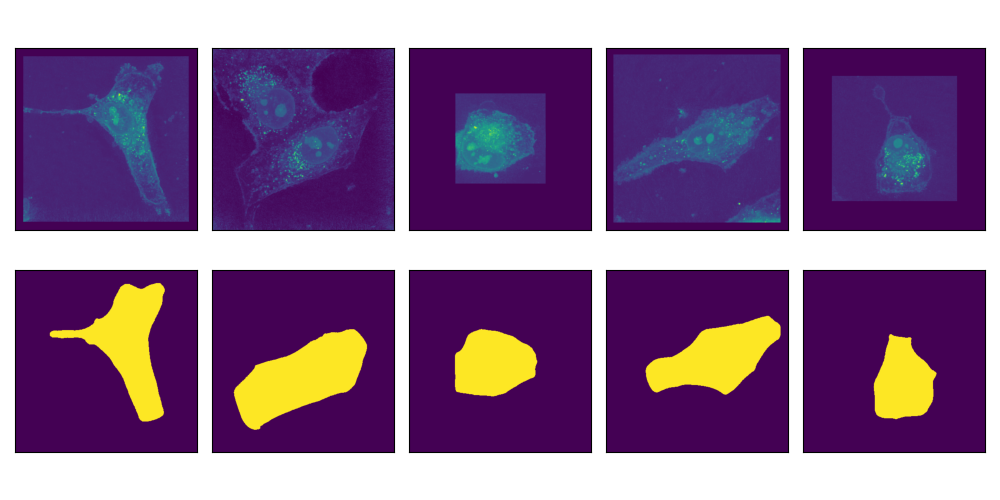
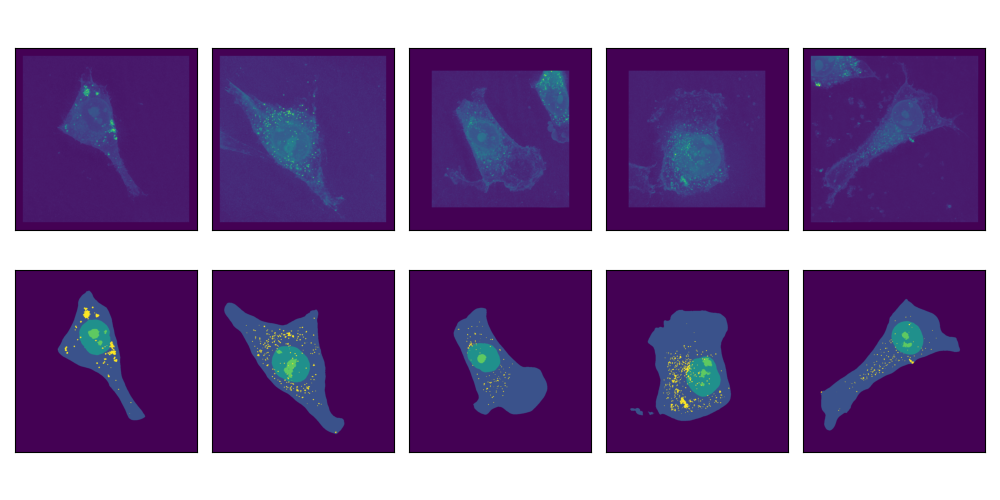
prediction from unseen images

diff --git a/qpi_seg/predict_unseen.py b/qpi_seg/predict_unseen.py
@@ -1,0 +1,68 @@
+import torch
+import tifffile
+import os
+import torchvision.transforms.v2 as transforms_v2
+from models.unet import UNet
+import torch.nn as nn
+import matplotlib.pyplot as plt
+import numpy as np
+import qpi_seg.visualize as visual_test
+import qpi_seg.plot_grids as pg
+
+device = torch.device("cuda") if torch.cuda.is_available() else torch.device("cpu")
+assert torch.cuda.is_available()
+model=UNet(depth=6,in_channels=1,out_channels=5, num_fmaps=32,final_activation=nn.Softmax()).to(device)
+model_save=torch.load('/home/S-DC/ARTEMIS2D/checkpoints_unet1/checkpoint_epoch_190.pt')
+model.load_state_dict(model_save['model_state_dict'])
+model=model.to(device)
+
+test_images_folder=r'/mnt/efs/dl_jrc/student_data/S-DC/MIP_unseen_padded'
+#test_masks_folder=r'/mnt/efs/dl_jrc/student_data/S-DC/Masks_padded_final'
+
+#TODO: Export masks to be usable by Fiji
+unet_masks_output_folder=r'/mnt/efs/dl_jrc/student_data/S-DC/output_masks'
+
+test_files= os.listdir(test_images_folder)
+test_images = [tifffile.imread(os.path.join(test_images_folder,test_files[i])) for i in range(5)]
+#test_mask_files= os.listdir(test_images_folder)
+#test_mask = tifffile.imread(os.path.join(test_masks_folder,test_mask_files[10]))
+from_np=transforms_v2.Lambda(lambda x: torch.from_numpy(x))
+transform = transforms_v2.CenterCrop((832,832))
+norm_min=13300
+norm_max=14100
+model.eval()
+clustermaps=[]
+for i in range(5):
+    torch_test_image = from_np(test_images[i])
+    torch_test_image=torch_test_image.float()
+    img_norm= (torch_test_image - norm_min) / (norm_max - norm_min)
+    img_norm=img_norm.unsqueeze(dim=0).to(device)
+    img_norm2=img_norm.unsqueeze(dim=0).to(device)
+    img_norm2=transform(img_norm2)
+    torch_prediction=model(img_norm2)
+    clustermap=np.zeros((832,832))
+    torch_prediction=torch_prediction.reshape(5,832,832).detach().cpu()
+    ch1_prediction = torch_prediction[0,:,:]
+    ch2_prediction = torch_prediction[1,:,:]
+    ch3_prediction= torch_prediction[2,:,:]
+    ch4_prediction=torch_prediction[3,:,:]
+    ch5_prediction=torch_prediction[4,:,:]
+    clustermap[ch1_prediction>=0.5]=0
+    clustermap[ch2_prediction>=0.5]=1
+    clustermap[ch3_prediction>=0.5]=2
+    clustermap[ch4_prediction>=0.5]=3
+    clustermap[ch5_prediction>=0.5]=4
+
+    #pad clustermap with 4 pixels 
+    padded_clustermap=np.pad(clustermap,((2,2),(2,2)),'constant',constant_values=(0,0))
+    clustermaps.append(padded_clustermap)
+
+
+pg.plot_grids(test_images,clustermaps)
+
+#visual_test.visualize(test_image, test_mask,padded_clustermap)
+#plt.savefig('test_predict10.png')
+
+#the targets here are to export a merged mask of 5 channels
+
+